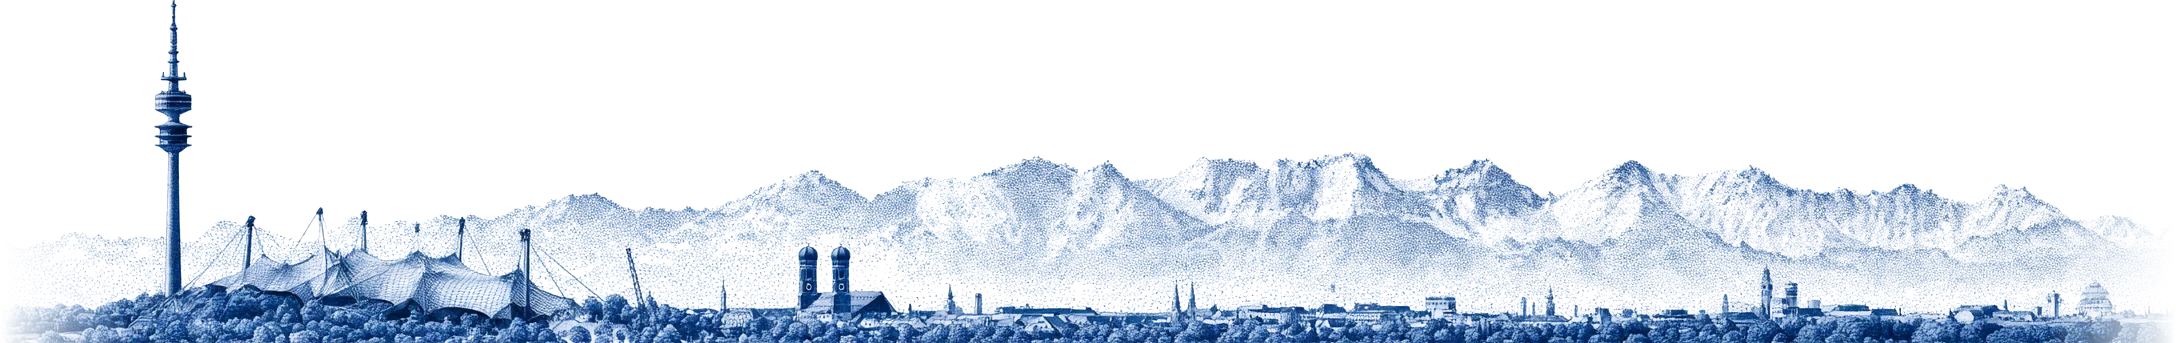
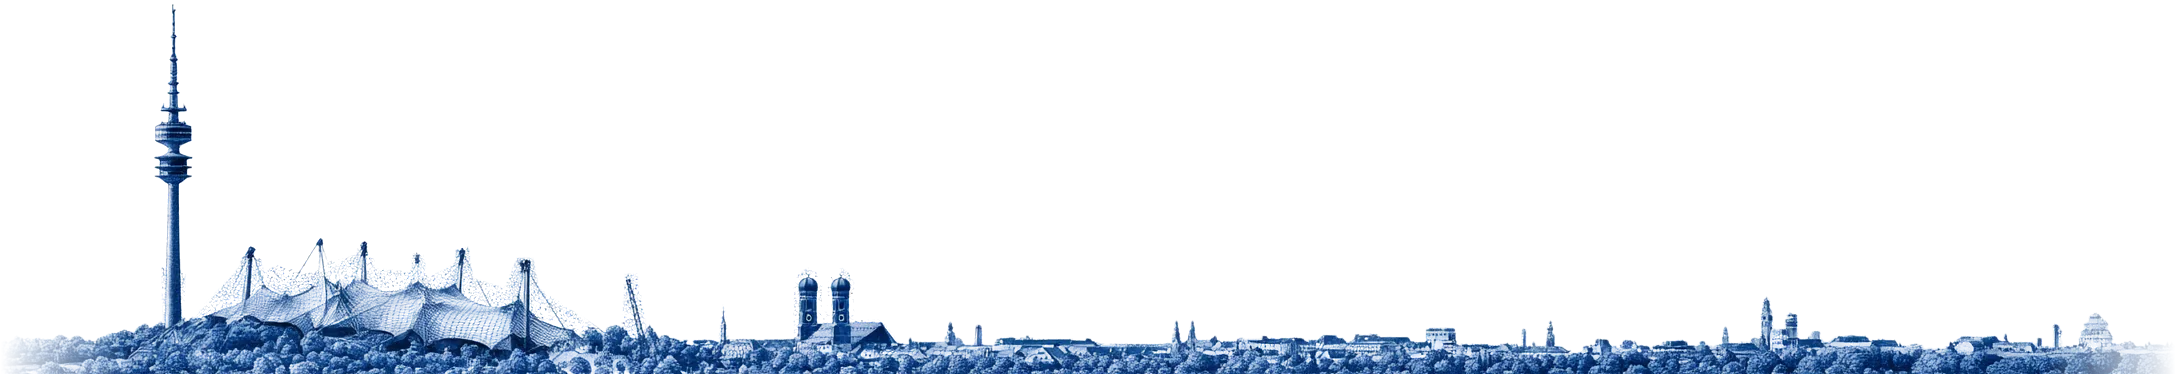
Flying lesson: the real chain of the Alps behind the skyline
- scripts/alps.py computes the panorama from SRTM elevation data (seen from the northern edge of Munich) and renders it in ink
- the game shows it as a far panorama that continues left and right of the city and fades out at both ends
- the skyline drawing keeps the city only; its invented mountains and the plain ridge lines are gone
- forest edge longer and without steps when the helicopter turns
- making-of: credit for the elevation data

Claude-Session: https://claude.ai/code/session_017VwAiJ6P8Dn52yEYRaDiLX

Changed region(s): [[0.0, 0.4373, 1.0, 0.9913], [0.0625, 0.2041, 0.0938, 0.4956]]

diff --git a/js/flight.js b/js/flight.js
@@ -81,6 +81,7 @@
   const SKY = 3600, K = 1.5;                      // the skyline stands 3.6 km off and is drawn larger than life so it can be recognised
   const SKYW = 4000, WOODW = 340, FIELDW = 106;   // metres: width of the skyline drawing, of one forest strip (edge plus mirror image), of hangar and tower
   const PIC = 709, HOOD = 492, DIALS = [[643, 406], [695, 407], [747, 408], [643, 453], [695, 456], [749, 457]];   // cockpit drawing, in its own pixels: height of the picture (the grip reaches further down), lower edge of the binnacle, the six dials
+  const ALPS = { span: rad(146), top: rad(6.2) };  // the panorama of the Alps (scripts/alps.py) holds 112° of compass and 1.36° of height: drawn a little wider and much taller, as a long lens shows them
   const ART = {};
 
   // ---- state
@@ -195,6 +196,13 @@
       prev = cur;
     }
   };
+  // the chain of the Alps: a panorama so far away that it only turns with the helicopter and never shifts. Each column of the
+  // picture is a compass direction, its lower edge the horizon
+  const Q = (b, e) => { const x0 = Math.sin(b) * Math.cos(e), y0 = Math.cos(b) * Math.cos(e), z0 = Math.sin(e), xr = x0 * cs - y0 * sn, yr = x0 * sn + y0 * cs, d = yr * ca + z0 * sa; return d < .12 ? null : [xr / d * F, -(-yr * sa + z0 * ca) / d * F]; };
+  const chain = img => { const n = 60, iw = img.width; let prev = null;
+    for (let i = 0; i <= n; i++) { const b = (i / n - .5) * ALPS.span, lo = Q(b, 0), hi = lo && Q(b, ALPS.top), cur = hi ? [lo[0], lo[1], hi[1]] : null;
+      if (prev && cur && cur[0] > prev[0] && cur[0] > -far && prev[0] < far) { const top = (prev[2] + cur[2]) / 2; g.drawImage(img, (i - 1) / n * iw, 0, iw / n, img.height, prev[0] - .5, top, cur[0] - prev[0] + 1, (prev[1] + cur[1]) / 2 - top); }
+      prev = cur; } };
   const draw = () => {
     cs = Math.cos(S.yaw); sn = Math.sin(S.yaw); const a = S.pitch + LOOK; ca = Math.cos(a); sa = Math.sin(a);
     g.setTransform(1, 0, 0, 1, 0, 0); g.fillStyle = '#d6d9d6'; g.fillRect(0, 0, W, H);
@@ -202,12 +210,10 @@
     const hz = F * Math.tan(a); far = Math.hypot(W, H);
     // sky: a few ruled lines, like the paper of the site
     ink(.07, 1); for (let i = 1; i < 9; i++) { g.beginPath(); g.moveTo(-far, hz - i * i * 6 * dpr); g.lineTo(far, hz - i * i * 6 * dpr); g.stroke(); }
-    const sk = ART.skyline, sl = sk && P(-SKYW * .44, SKY, 0), sr = sk && P(SKYW * .44, SKY, 0);
-    if (sl || sr) { g.save(); g.beginPath(); if (sl) g.rect(-far, -far, far + sl[0], far * 2); if (sr) g.rect(sr[0], -far, far, far * 2); g.clip(); }   // where the drawn skyline stands, it brings its own Alps
-    band(PEAKS[1], 46000, .05, .22); band(PEAKS[0], 38000, .08, .34);                                      // the Alps
-    if (sl || sr) g.restore();
+    const sk = ART.skyline;
+    if (ART.alps) chain(ART.alps); else { band(PEAKS[1], 46000, .05, .22); band(PEAKS[0], 38000, .08, .34); }   // the Alps: the real chain, or two plain ridges
     wash(.07); g.fillRect(-far, hz, far * 2, far * 2); ink(.5, 1); g.beginPath(); g.moveTo(-far, hz); g.lineTo(far, hz); g.stroke();   // the ground, up to the horizon
-    if (sk) board(sk, -SKYW / 2, SKYW / 2, SKY, SKYW * sk.height / sk.width, 28);                         // Olympiaturm, tent roof, Frauenkirche, the Alps: one drawing
+    if (sk) board(sk, -SKYW / 2, SKYW / 2, SKY, SKYW * sk.height / sk.width, 28);                         // Olympiaturm, tent roof, Frauenkirche: one drawing
     else {
       band(TOWN, SKY + 300, .1, .3);                                                                         // roofs of the city
       const sky = (pts, f, al = .75) => wall(pts.map(([x, z]) => [x * K, z * K]), SKY, f, al, 1);
@@ -216,7 +222,7 @@
       for (const x of [196, 228]) sky([[x, 0], [x, 78], [x + 2, 86], [x + 6, 93], [x + 10, 99], [x + 14, 93], [x + 18, 86], [x + 20, 78], [x + 20, 0]], .34);                           // Frauenkirche, two towers
       sky([[218, 0], [218, 46], [300, 46], [318, 30], [318, 0]], .2, .6);                                                                                                                 // ... and its nave
     }
-    if (ART.forest) { const fw = WOODW, fh = fw * ART.forest.height / ART.forest.width; for (let i = -5; i < 5; i++) board(ART.forest, i * fw, (i + 1) * fw, 540, fh, 8); }   // the edge of the wood
+    if (ART.forest) { const fw = WOODW, fh = fw * ART.forest.height / ART.forest.width; for (let i = -9; i < 9; i++) board(ART.forest, i * fw, (i + 1) * fw, 540, fh, 20); }   // the edge of the wood
     else { band(WOOD[1], 700, .2, .4); band(WOOD[0], 540, .34, .6); }
     if (ART.airfield) board(ART.airfield, -146, -146 + FIELDW, 236, FIELDW * ART.airfield.height / ART.airfield.width, 10);   // hangar and tower
     else {
@@ -263,7 +269,7 @@
     if (y > 2) { const fade = k.createLinearGradient(0, y, 0, y + s * PIC * .2); fade.addColorStop(0, 'rgba(0,0,0,1)'); fade.addColorStop(1, 'rgba(0,0,0,0)'); k.globalCompositeOperation = 'destination-out'; k.fillStyle = fade; k.fillRect(0, 0, W, y + s * PIC * .2); }   // ... and the frame fades out where it would end in mid-air
     seat = { cv: c, x, y, s };
   };
-  const art = () => { for (const name of ['skyline', 'forest', 'airfield', 'cockpit']) { const img = new Image(); img.decoding = 'async';
+  const art = () => { for (const name of ['alps', 'skyline', 'forest', 'airfield', 'cockpit']) { const img = new Image(); img.decoding = 'async';
     img.onload = () => { if (!open) return;
       if (name === 'forest') { const c = document.createElement('canvas'), w = img.width; c.width = w * 2; c.height = img.height; const k = c.getContext('2d'); k.drawImage(img, 0, 0); k.translate(w * 2, 0); k.scale(-1, 1); k.drawImage(img, 0, 0); ART.forest = c; }   // the edge and its mirror image: a strip that repeats without a seam
       else ART[name] = img; if (name === 'cockpit') fit(); };

diff --git a/making-of.html b/making-of.html
@@ -31,6 +31,7 @@
     <p>Coming soon.</p>
     <h2 id="credits">Credits &amp; Sound</h2>
     <p>Helicopter sound effects on the bio page and in the flight game: freeSFX — <a href="https://www.freesfx.co.uk/" target="_blank" rel="noopener">www.freesfx.co.uk</a></p>
+    <p>The Alps in the flight game are computed from open elevation data (Mapzen Terrain Tiles): SRTM terrain data courtesy of the U.S. Geological Survey; Europe terrain data produced using Copernicus data and information funded by the European Union – EU-DEM layers; Austria terrain data © offene Daten Österreichs – Digitales Geländemodell (DGM) Österreich.</p>
   </article>
 </main>
 <script src="js/site.js"></script>

diff --git a/scripts/alps.py b/scripts/alps.py
@@ -1,0 +1,87 @@
+#!/usr/bin/env python3
+"""The Alps as seen from the northern edge of Munich, computed from SRTM elevation data and drawn in ink.
+
+  alps.py <folder with N47E010 N47E011 N47E012 N46E011 .hgt.gz> <out.webp> [--preview out.png]
+
+The elevation tiles are the 1-arc-second "skadi" tiles of the Terrain Tiles on AWS Open Data
+(s3.amazonaws.com/elevation-tiles-prod/skadi/N47/N47E011.hgt.gz and so on); they are not kept in this repository.
+
+A panorama: every column is a compass direction, every row an angle above the horizon. Heights are exaggerated (as a long
+lens does), directions slightly. The tone comes from the light on the slopes, snow above the tree line and the haze of distance.
+"""
+import sys, gzip
+import numpy as np
+from PIL import Image
+from scipy import ndimage as ndi
+
+src, out = sys.argv[1], sys.argv[2]
+LAT0, LON0, EYE = 48.25, 11.56, 560.0            # north of the city, a little above the ground
+AZ0, AZ1 = 124.0, 236.0                           # compass directions shown (180 = south)
+W, H = 4096, 200
+TOP = 1.36                                        # true angle above the horizon at the top edge, in degrees. js/flight.js draws it taller (ALPS)
+R = 6371000.0; KREF = .13                         # earth radius, refraction
+
+tiles = {}
+for la, lo in [(47, 10), (47, 11), (47, 12), (46, 11)]:
+    a = np.frombuffer(gzip.open(f'{src}/N{la}E0{lo}.hgt.gz').read(), '>i2').reshape(3601, 3601).astype(np.float32)
+    a[a < -1000] = np.nan
+    tiles[(la, lo)] = a
+big = np.full((2 * 3600 + 1, 3 * 3600 + 1), 500, np.float32)     # lat 48..46 downwards, lon 10..13; what is missing counts as lowland
+for (la, lo), a in tiles.items():
+    r0, c0 = (47 - la) * 3600, (lo - 10) * 3600
+    big[r0:r0 + 3601, c0:c0 + 3601] = np.where(np.isnan(a), 500, a)
+dem = big[::2, ::2]                               # 2 arc seconds: about 62 m north-south, 42 m east-west
+dem = ndi.gaussian_filter(dem, .8)
+gy, gx = np.gradient(dem, 61.8, 41.3)             # metres per metre; rows run south, columns east
+def sample(g, lat, lon):
+    return ndi.map_coordinates(g, [(48 - lat) * 1800, (lon - 10) * 1800], order=1, mode='nearest')
+
+az = np.radians(np.linspace(AZ0, AZ1, W))
+r = np.concatenate([np.arange(12e3, 60e3, 60.0), np.arange(60e3, 175e3, 110.0)])
+lat = LAT0 + np.outer(r, np.cos(az)) / 111200.0
+lon = LON0 + np.outer(r, np.sin(az)) / (111200.0 * np.cos(np.radians(LAT0 - .45)))
+h = sample(dem, lat, lon)
+inside = (lat > 46) & (lat < 48) & (lon > 10) & (lon < 13) & ~((lat < 47) & ((lon < 11) | (lon > 12)))
+h = np.where(inside, h, -2000)
+eps = np.degrees(np.arctan((h - EYE - r[:, None] ** 2 / (2 * R) * (1 - KREF)) / r[:, None]))
+top = np.maximum.accumulate(eps, axis=0)          # the highest angle reached so far, going away from the eye
+rows = TOP * (1 - (np.arange(H) + .5) / H)        # angle of each pixel row
+hit = np.empty((H, W), np.int32)
+for c in range(W):
+    hit[:, c] = np.searchsorted(top[:, c], rows)  # first terrain that reaches this row
+land = hit < len(r)
+hit = np.minimum(hit, len(r) - 1); cc = np.arange(W)[None, :]
+dist, height = r[hit], h[hit, cc]
+sx, sy = sample(gx, lat, lon)[hit, cc], sample(gy, lat, lon)[hit, cc]
+# light from the south-east, fairly low: normal = (-dh/dx, +dh/dy_south..., 1)
+sun_az, sun_alt = np.radians(125), np.radians(32)
+L = np.array([np.sin(sun_az) * np.cos(sun_alt), np.cos(sun_az) * np.cos(sun_alt), np.sin(sun_alt)])   # east, north, up
+n = np.dstack([-sx, sy, np.ones_like(sx)]); n /= np.linalg.norm(n, axis=2, keepdims=True)              # gy is per metre southwards
+lit = np.clip(n @ L, 0, 1)
+rng = np.random.default_rng(3)
+snowline = 1480 + 90 * ndi.gaussian_filter(rng.standard_normal((H, W)), 6) * 6
+snow = np.clip((height - snowline) / 300, 0, 1)
+rock = .22 + .55 * (1 - lit) ** 1.4               # shaded slopes dark
+wood = .40 + .34 * (1 - lit)
+tone = np.where(height < 1300, wood, rock) * (1 - .86 * snow) + snow * .30 * (1 - lit) ** 1.6
+haze = np.clip(1.3 - dist / 115e3, .45, 1)                        # the far ranges pale, the nearer foothills stronger
+tone = tone * haze
+# ridge lines: where the next row up is much further away, a slope ends against the one behind it
+jump = np.zeros((H, W), bool); jump[1:] = (dist[:-1] - dist[1:] > 1500) | (~land[:-1] & land[1:])
+line = ndi.gaussian_filter(jump.astype(np.float32), .6) * 1.8
+line *= np.clip(1.15 - dist / 170e3, .35, 1)
+# stipple: ink dots, denser where the tone is darker
+dots = ndi.gaussian_filter((rng.random((H, W)) < np.clip(tone, 0, 1) ** 1.15).astype(np.float32), .55)
+alpha = np.clip(.44 * tone + .9 * dots * tone ** .4 + line, 0, 1) * land
+x = np.linspace(0, 1, W); alpha *= np.clip(np.minimum(x, 1 - x) / .14, 0, 1)[None, :] ** 1.3          # both ends fade into the distance
+y = (np.arange(H) + .5) / H; alpha *= np.clip((1 - y) / .14, 0, 1)[:, None]                             # and the foot into the haze of the plain
+ink = np.where((line > .5)[..., None], [18, 38, 95], [31, 63, 151]).astype(np.float32)
+im = Image.fromarray(np.dstack([ink, alpha * 255]).round().astype(np.uint8), 'RGBA')
+im.save(out, quality=78, method=6)
+print('alps', im.size, 'covers', AZ0, AZ1, 'top angle', TOP)
+if '--preview' in sys.argv:
+    bg = Image.new('RGBA', im.size, (214, 217, 214, 255)); bg.alpha_composite(im); bg.convert('RGB').save(sys.argv[sys.argv.index('--preview') + 1])
+if '--where' in sys.argv:                           # where the well-known summits stand, for checking
+    for name, la, lo in [('Zugspitze', 47.4211, 10.9853), ('Benediktenwand', 47.6531, 11.4656), ('Wendelstein', 47.7031, 12.0122), ('Herzogstand', 47.6094, 11.3072), ('Birkkarspitze', 47.4117, 11.4375), ('Kampenwand', 47.7553, 12.3661), ('Guffert', 47.5456, 11.7897), ('Saeuling', 47.5372, 10.7458)]:
+        dn, de = (la - LAT0) * 111200, (lo - LON0) * 111200 * np.cos(np.radians(LAT0 - .45)); a = np.degrees(np.arctan2(de, dn)) % 360
+        print(f'  {name}: direction {a:.1f}, column {int((a - AZ0) / (AZ1 - AZ0) * W)}, {np.hypot(dn, de) / 1000:.0f} km')

diff --git a/scripts/flight-art.py b/scripts/flight-art.py
@@ -44,12 +44,28 @@ def rows(alpha, thr=.02):
     return r[0], r[-1] + 1
 
 
-# --- skyline: Olympiaturm, tent roof, Frauenkirche, the Alps. White sky, a dark band of trees as its foot
+# --- skyline: Olympiaturm, tent roof, Frauenkirche over a dark band of trees. The drawing's own mountains are cut away:
+# the game puts the real chain behind it (scripts/alps.py)
 a = load('pano1')
 paper = np.median(a[:30].reshape(-1, 3), axis=0)
 rgb, al = key(a, paper, 6, 70)
-top, _ = rows(al, .002)
 foot = np.where(al.mean(axis=1) > .6)[0][-1] + 1                    # last row of the band of trees
+solid = ndi.gaussian_filter(al, 1.6) > .6                           # ink that holds together: buildings and trees, not the stipple of the mountains
+solid[:336] = False                                                 # nothing of the low city stands higher than this ...
+lab, n = ndi.label(ndi.binary_opening(solid, iterations=1))
+solid = np.isin(lab, np.unique(lab[foot - 14]))  & (lab > 0)        # only what stands on the band of trees, not loose clumps of stipple
+keep = np.maximum.accumulate(solid, axis=0)                         # ... and below its roofs everything belongs to it
+tall = Image.new('L', (a.shape[1], a.shape[0]), 0); d = ImageDraw.Draw(tall)   # ... except these, outlined by hand
+for poly in [
+    [(168, 40), (180, 40), (182, 150), (197, 160), (197, 236), (185, 242), (183, 380), (163, 380), (161, 242), (149, 236), (149, 160), (164, 150)],   # Olympiaturm
+    [(183, 380), (200, 356), (240, 312), (246, 290), (256, 290), (263, 318), (300, 300), (315, 282), (326, 282), (332, 308), (357, 300), (360, 285), (369, 285), (374, 314),
+     (411, 318), (413, 298), (422, 298), (426, 324), (454, 310), (457, 292), (467, 292), (472, 324), (505, 334), (517, 304), (532, 304), (538, 334), (577, 360), (604, 378), (604, 392), (183, 392)],   # tent roof with its masts
+    [(621, 390), (625, 320), (636, 320), (648, 390)], [(718, 390), (723, 351), (728, 390)],                                                              # crane, a spire
+    [(794, 390), (794, 330), (799, 319), (808, 314), (817, 319), (821, 330), (821, 358), (828, 358), (828, 330), (833, 319), (841, 314), (849, 319), (853, 330), (853, 366), (882, 366), (898, 390)],   # Frauenkirche
+]: d.polygon(poly, fill=255)
+keep |= np.asarray(tall) > 0
+al = al * ndi.gaussian_filter(keep.astype(np.float32), .7)
+top, _ = rows(al, .0005)
 rgb, al = rgb[max(0, top - 4):foot], al[max(0, top - 4):foot]
 x = np.linspace(0, 1, al.shape[1]); al = al * np.clip(np.minimum(x, 1 - x) / .06, 0, 1)[None, :]   # both ends fade into the open horizon
 save(rgb, al, 'skyline', q=84)

diff --git a/README.md b/README.md
@@ -16,7 +16,7 @@ No build step. Serve the folder (`python3 -m http.server`) and open it, or open 
 - `robots.txt`, `llms.txt` – what crawlers and AI assistants may read, and a plain-text description of the site for them
 - `bio.html`, `js/bio.js`, `assets/bio/` – the bio as a logbook: a chart of the North Atlantic (drawn from Natural Earth coastlines). A swallow carries an ink line from city to city as the chapters scroll, the camera follows, the current city blooms into colour, and the station's engraving (cut from the skull drawing, with the start page's films laid over it) comes alive. `assets/video/heli.mp4` is an Alouette II on white (Midjourney, Runway); `bio.js` draws it to a canvas and makes the white see-through Films of ink on white (helicopter, Teide, night sky) are drawn to a canvas with the white keyed out, so the engravings lie on the paper; `scripts/loop.py` turns a Runway clip into such a loop plus its first frame, `scripts/owl-matte.py` gives the owl film its own outline (picture above, matte below). Easter eggs: click the helicopter and it leaves to the right and returns from the left, with its sound (`assets/audio/alouette.mp3`, a recording of an Alouette flying by, from freeSFX, panned and faded with the flight); the snowboarder throws pixel powder across the text.
 - `js/flight.js`, `css/flight.css` – "Was soll das werden?", a hovering game hidden in the bio: click the helicopter, then click it again while it flies. Both files load only then, and so do the game's drawings and sounds. Three levels (`LEVELS` at the top of the script, next to `CFG` with the rest of the tuning): on "easy" the helicopter levels itself, on "realistic" it does not, so every input has to be taken out again. The instructor's three shouted lines are Chris's memories, word for word, and must not be reworded; they and his other lines are always shown as text (German, with an English gloss in the English version) and spoken when the sound is on. Best values are kept per level in `localStorage`, nothing else is stored. The key `` ` `` shows a debug read-out.
-  - `assets/flight/*.webp` – cockpit, skyline (Olympiaturm, tent roof, Frauenkirche, Alps), forest edge, hangar with tower: Midjourney ink drawings made see-through by `scripts/flight-art.py <folder with the PNGs> assets/flight`. The cockpit is the fixed frame with live needles on its six dials (their positions: `DIALS`); the others stand as upright boards in a drawn landscape. If a file is missing the script draws a plain stand-in itself.
+  - `assets/flight/*.webp` – cockpit, skyline (Olympiaturm, tent roof, Frauenkirche), forest edge, hangar with tower: Midjourney ink drawings made see-through by `scripts/flight-art.py <folder with the PNGs> assets/flight`. `alps.webp` is no drawing but the real chain as seen from the northern edge of Munich, from the Chiemgau to the Allgäu with the Zugspitze where it belongs: `scripts/alps.py <folder with the elevation tiles> assets/flight/alps.webp` computes it from SRTM elevation data (Terrain Tiles on AWS Open Data, not kept in the repository; credited on the making-of page) and renders it in ink. The game shows it as a far panorama, taller than life (`ALPS` in the script), fading out at both ends. The cockpit is the fixed frame with live needles on its six dials (their positions: `DIALS`); the others stand as upright boards in a drawn landscape. If a file is missing the script draws a plain stand-in itself.
   - `assets/audio/flight/*.mp3` – the instructor (ElevenLabs, voice "Leonard Berger", model `eleven_v4`, German) and `cabin.mp3`, the inside of an Alouette in flight (a recording from freeSFX; the file holds a seamless fourteen-second loop between 0.2 s and 14.2 s). Without them the game is silent and otherwise the same.
 - Load: the films are sized for the space they fill, the page's own animation loops run at 30 pictures a second, everything pauses in a hidden tab and after three minutes without input, and the bio keys its films on the graphics chip (WebGL, with a canvas fallback). Measure on a real machine (`top` on the browser's helper processes); the headless test browser has no graphics chip and misleads here.
 - Class names are shared across pages in one stylesheet: the start page owns `.film`, the bio uses `.reel`. Check the start page after touching the bio's styles.
